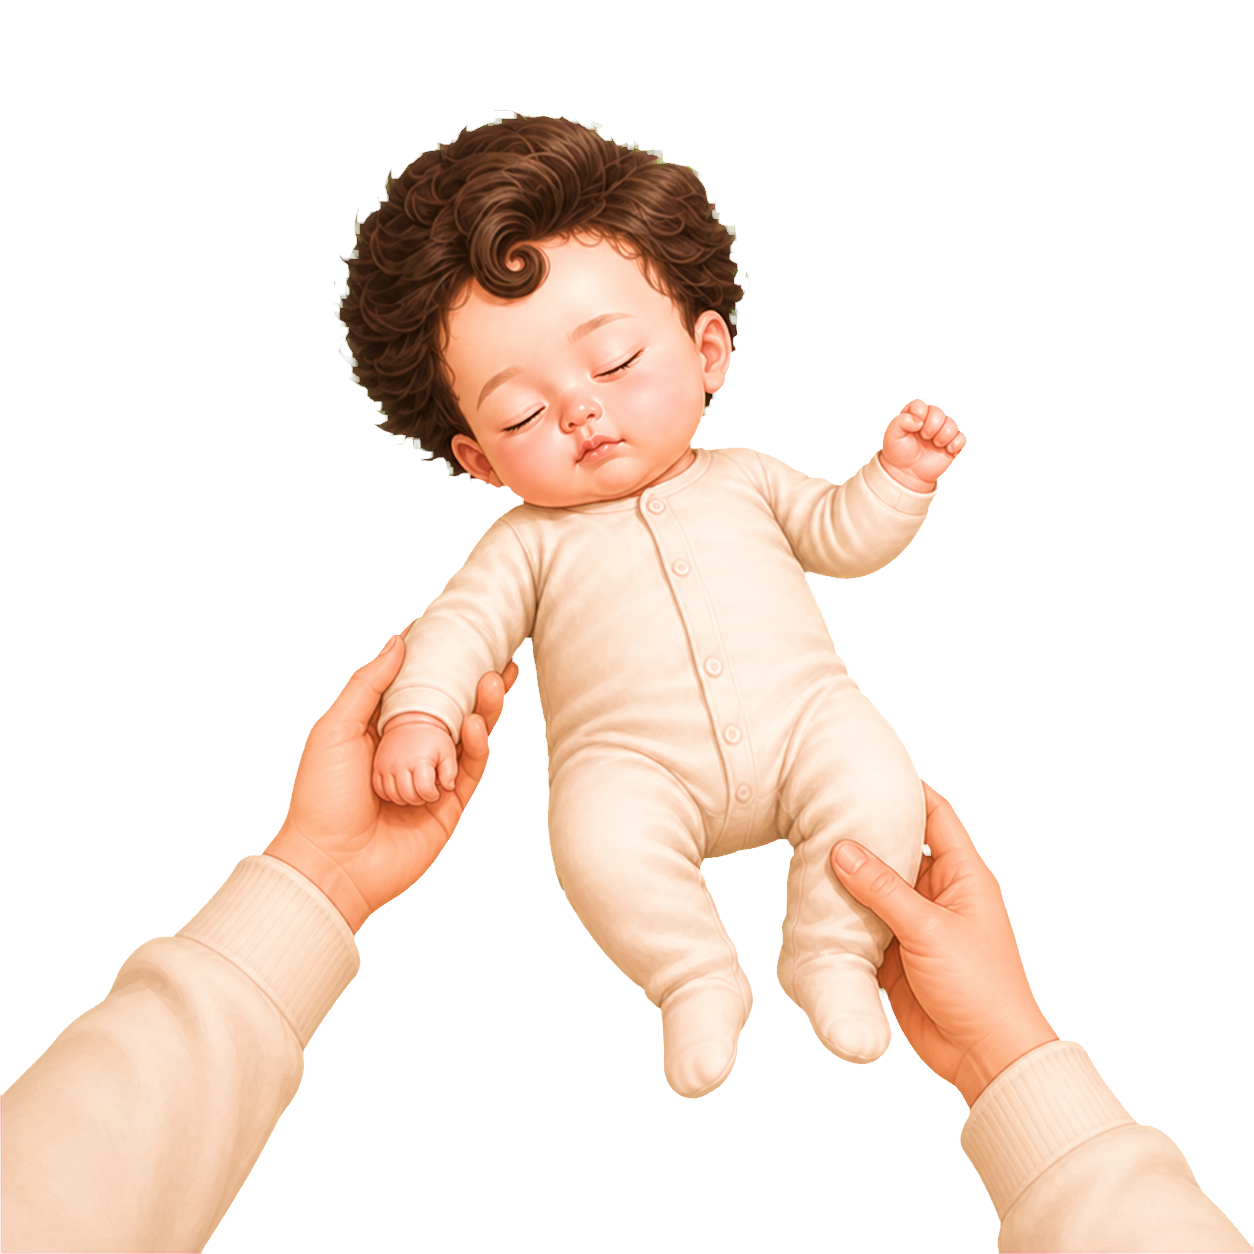
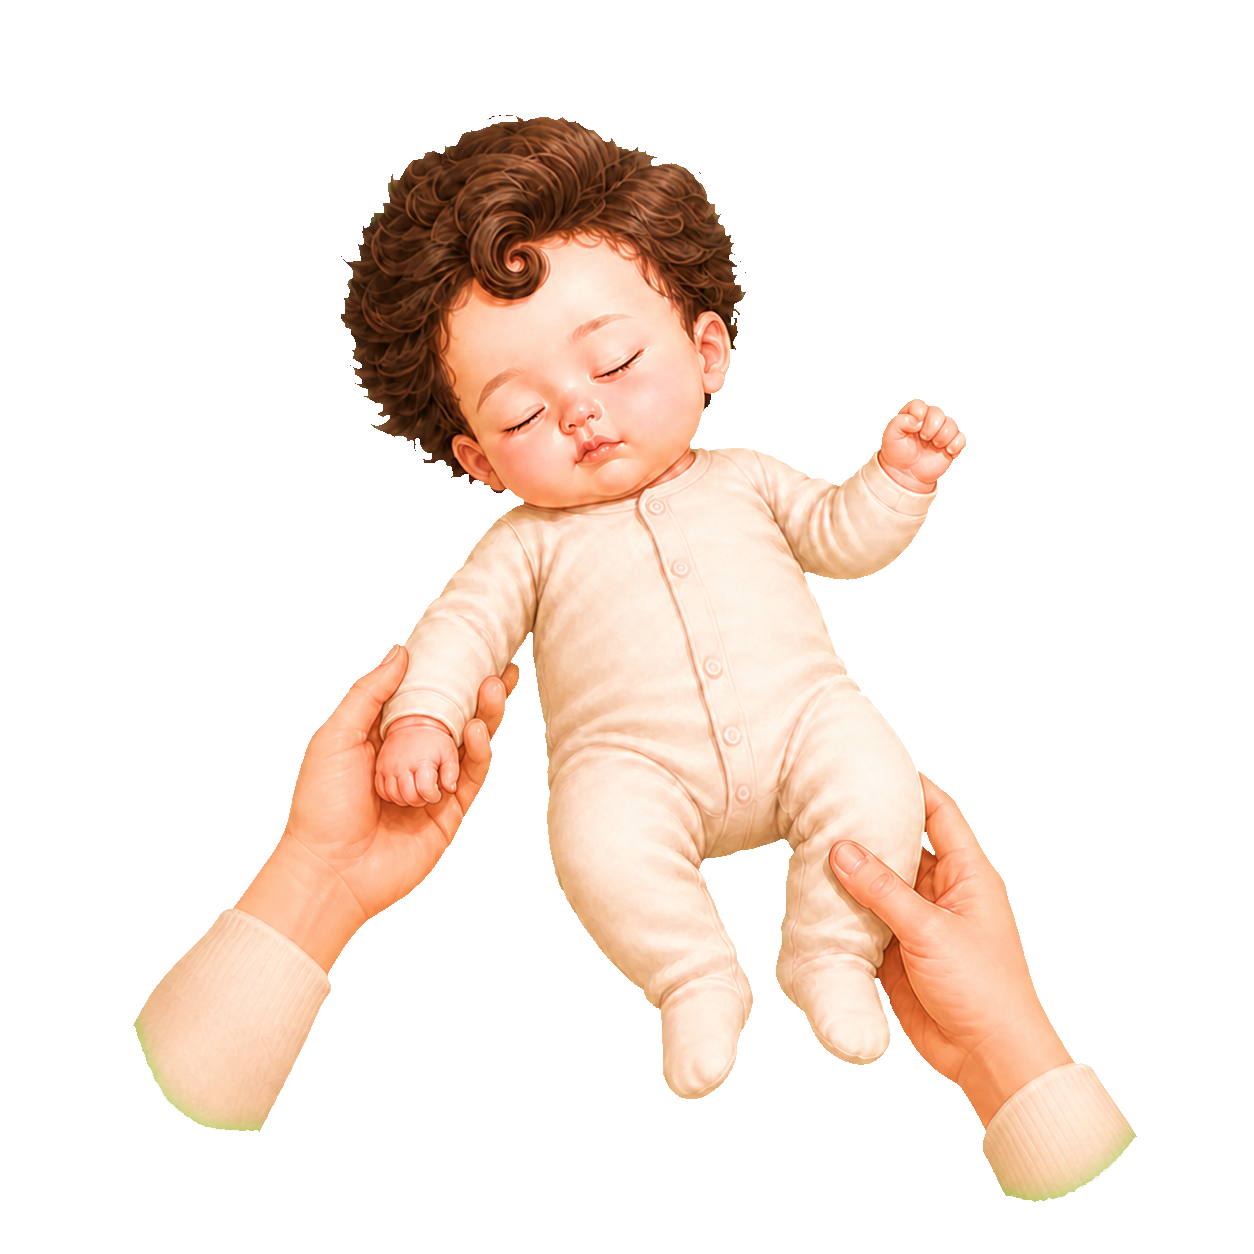
Fix F-09 interaction art edge crops

diff --git a/figma-plugin/code.js b/figma-plugin/code.js
@@ -675,6 +675,7 @@
       "이번 반영 · 진열형 아이템 2×2 + 독립 설명 패널 + 선택 광택\n" +
       "이번 반영 · 버튼 덱/탭/컨텍스트 칩 제거 + 아기와 방 소품 직접조작\n" +
       "이번 반영 · 기존 20종 + 눕히기/기저귀 확인/교체/팔다리 이완/체온 확인 합성 아트 5종\n" +
+      "아트 엣지 규정 · 보호자 팔/소매는 프레임 내 완결 또는 알파 0까지 페이드 · 테두리 32px 연속 접촉 금지\n" +
       "이번 반영 · 체력 0 회복 선택 + 밤 종료 중복 방지 + 3밤/엔딩 전환 회귀\n" +
       "이번 반영 · 주방 분유통/젖병/식힘 물 직접 터치 + 내용물 상태 가시화\n" +
       "이번 반영 · 빌드 용량 상한 제거. 필수 WebGL 산출물 정합성만 검사\n\n" +

diff --git a/Assets/Editor/InteractionArtCanvasEdgeValidator.cs b/Assets/Editor/InteractionArtCanvasEdgeValidator.cs
@@ -1,0 +1,85 @@
+using System;
+using System.Collections.Generic;
+using UnityEditor;
+using UnityEngine;
+
+namespace NotANap.Editor
+{
+    /// <summary>
+    /// F-09 회귀 방지: 직접 돌봄 합성 PNG가 캔버스 경계에서 긴 직선으로 잘린 채
+    /// 임포트되는 것을 즉시 알린다.
+    /// </summary>
+    public sealed class InteractionArtCanvasEdgeValidator : AssetPostprocessor
+    {
+        public const byte VisibleAlphaThreshold = 16;
+        public const int RejectedBorderRunLength = 32;
+
+        private static readonly HashSet<string> ValidatedAssets = new HashSet<string>(
+            StringComparer.Ordinal)
+        {
+            "Assets/Resources/Art/Baby/Interaction/diaper_check.png",
+            "Assets/Resources/Art/Baby/Interaction/diaper_change.png",
+            "Assets/Resources/Art/Baby/Interaction/limb_check.png",
+            "Assets/Resources/Art/Baby/Interaction/temperature_check.png",
+            "Assets/Resources/Art/Baby/Interaction/lying_sleep.png"
+        };
+
+        private void OnPostprocessTexture(Texture2D texture)
+        {
+            if (!ValidatedAssets.Contains(assetPath)) return;
+
+            int longestRun = LongestVisibleRunOnCanvasEdge(
+                texture.GetPixels32(), texture.width, texture.height, VisibleAlphaThreshold);
+            if (longestRun < RejectedBorderRunLength) return;
+
+            Debug.LogError(
+                $"[InteractionArt] {assetPath} has a {longestRun}px alpha run touching the " +
+                "canvas edge. Complete arms/sleeves inside the frame or fade alpha to zero " +
+                $"before the edge (limit: {RejectedBorderRunLength - 1}px).",
+                texture);
+        }
+
+        public static int LongestVisibleRunOnCanvasEdge(
+            Color32[] pixels, int width, int height, byte alphaThreshold)
+        {
+            if (pixels == null) throw new ArgumentNullException(nameof(pixels));
+            if (width <= 0 || height <= 0 || pixels.Length != width * height)
+                throw new ArgumentException("Pixel data must match width × height.", nameof(pixels));
+
+            int longest = 0;
+            longest = Math.Max(longest, LongestHorizontalRun(pixels, width, 0, alphaThreshold));
+            longest = Math.Max(longest,
+                LongestHorizontalRun(pixels, width, (height - 1) * width, alphaThreshold));
+            longest = Math.Max(longest, LongestVerticalRun(pixels, width, height, 0, alphaThreshold));
+            longest = Math.Max(longest,
+                LongestVerticalRun(pixels, width, height, width - 1, alphaThreshold));
+            return longest;
+        }
+
+        private static int LongestHorizontalRun(
+            Color32[] pixels, int width, int offset, byte alphaThreshold)
+        {
+            int longest = 0;
+            int current = 0;
+            for (int x = 0; x < width; x++)
+            {
+                current = pixels[offset + x].a >= alphaThreshold ? current + 1 : 0;
+                longest = Math.Max(longest, current);
+            }
+            return longest;
+        }
+
+        private static int LongestVerticalRun(
+            Color32[] pixels, int width, int height, int x, byte alphaThreshold)
+        {
+            int longest = 0;
+            int current = 0;
+            for (int y = 0; y < height; y++)
+            {
+                current = pixels[y * width + x].a >= alphaThreshold ? current + 1 : 0;
+                longest = Math.Max(longest, current);
+            }
+            return longest;
+        }
+    }
+}

diff --git a/docs/assets.md b/docs/assets.md
@@ -10,7 +10,7 @@
 | `Assets/Resources/Art/Baby/*.png` | 아기 상태 캐릭터 12종 | OpenAI 내장 이미지 생성 도구로 2026-07-21 생성 | 프로젝트 사용을 위한 사용자 소유 생성물 | 동일한 동양 아기, 부드러운 큰 웨이브와 C자 애교머리, 크로마키 제거 투명 PNG |
 | `Assets/Resources/Art/Baby/Animated/*.png` | 아기 프레임 애니메이션 12종 | 기존 아기 캐릭터를 OpenAI 내장 이미지 생성 도구로 확장 | 프로젝트 사용을 위한 사용자 소유 생성물 | 깨어 있음·보챔·수면 각 4프레임, 눈·입·손발 동작 포함 |
 | `Assets/Resources/Art/Baby/Interaction/*.png` | 아기 직접조작 합성 프레임 20종 | 기존 아기·아이템 캐릭터를 기준으로 OpenAI 내장 이미지 생성 도구로 2026-07-27 생성 | 프로젝트 사용을 위한 사용자 소유 생성물 | 아기띠 착용 감정 4종과 토닥임·안기·수유·쪽쪽이 각 4프레임. 손과 아이템을 별도 PNG로 덧씌우지 않고 완성 장면으로 렌더한 투명 PNG |
-| `Assets/Resources/Art/Baby/Interaction/{lying_sleep,diaper_check,diaper_change,limb_check,temperature_check}.png` | 누운 수면 상태와 안전한 직접 돌봄 합성 프레임 5종 | 기존 아기·손 합성 프레임을 참조해 OpenAI 내장 이미지 생성 도구로 2026-08-09 생성 | 프로젝트 사용을 위한 사용자 소유 생성물 | 안전한 바로 눕기, 기저귀 확인·교체, 팔다리 이완, 이마 체온 확인. 단색 크로마키 제거와 디스필을 적용한 투명 PNG이며 의료적 진단·제품 광고 표현 없음 |
+| `Assets/Resources/Art/Baby/Interaction/{lying_sleep,diaper_check,diaper_change,limb_check,temperature_check}.png` | 누운 수면 상태와 안전한 직접 돌봄 합성 프레임 5종 | 기존 아기·손 합성 프레임을 참조해 OpenAI 내장 이미지 생성 도구로 2026-08-09 생성·재제작 | 프로젝트 사용을 위한 사용자 소유 생성물 | 안전한 바로 눕기, 기저귀 확인·교체, 팔다리 이완, 이마 체온 확인. F-09 대응으로 팔·소매를 프레임 안에서 완결하고 수면 몸축을 요람 원근에 맞췄다. 단색 크로마키 제거·디스필·알파 경계 검사를 적용했으며 의료적 진단·제품 광고 표현 없음 |
 | `Assets/Resources/Art/Baby/Genetics/*.png` | 부모 외형 유전 아기 3종 | 기존 차분한 아기 캐릭터를 OpenAI 내장 이미지 생성 도구로 2026-07-27 편집 | 프로젝트 사용을 위한 사용자 소유 생성물 | 무쌍/유쌍 × 직모/곱슬 4조합 중 3종. 기존 `awake_calm.png`와 합쳐 전 조합을 제공하는 512×512 투명 PNG |
 | `Assets/Resources/Art/Items/*.png` | 밤 준비·플레이 HUD 아이템 4종 | OpenAI 내장 이미지 생성 도구로 2026-07-26 생성 | 프로젝트 사용을 위한 사용자 소유 생성물 | 아기띠·쪽쪽이·백색소음기·베이비 모니터, 크로마키 제거 투명 PNG |
 | `Assets/Resources/Art/Kitchen/*.png` | 주방 직접조작 소품 3종 | OpenAI 내장 이미지 생성 도구로 2026-07-27 생성 | 프로젝트 사용을 위한 사용자 소유 생성물 | 분유통·투명 젖병·식힘 물그릇, 기존 야간 주방의 크림·앰버·월넛 톤에 맞춘 크로마키 제거 투명 PNG |

diff --git a/figma-plugin/README.md b/figma-plugin/README.md
@@ -21,6 +21,8 @@ Figma V6 코드 싱크 보드에 반영하는 개발 플러그인입니다.
 - 토닥 3.4초, 안기 3.2초, 아기띠 2.8초, 수유 3.4초, 쪽쪽이 2.8초 계약
 - 제품 PNG 오버레이 금지와 완성 합성 스프라이트 25종 계약
 - 눕혀 재우기·기저귀 확인·기저귀 교체·팔다리 이완·체온 확인 신규 합성 아트 계약
+- 보호자 팔·소매는 프레임 안에서 완결하거나 알파 0까지 페이드하고, 캔버스 테두리에
+  32px 이상 연속 접촉하는 직선 절단을 금지하는 아트 엣지 계약
 - 욕실 체온 확인과 아기방 온·습도 숫자 확인/조정의 분리
 - 체력 0 회복 선택, 밤 종료 중복 방지, 첫째→둘째→백일째→엔딩 전환 계약
 - 기존 V6 HUD를 불투명 V13 화면으로 교체해 문구·상태 카드 중복 노출 방지

diff --git a/docs/figma-mobile-handoff.md b/docs/figma-mobile-handoff.md
@@ -47,7 +47,12 @@
 
 ## 4. 완성 합성 이미지와 모션
 
-`Assets/Resources/Art/Baby/Interaction/`의 20개 합성 스프라이트가 단일 기준이다.
+`Assets/Resources/Art/Baby/Interaction/`의 25개 합성 스프라이트가 단일 기준이다.
+
+- 투명 PNG의 보호자 팔·소매는 프레임 안에서 곡선으로 완결하거나 알파가 0까지 자연스럽게
+  페이드되어야 한다. 캔버스 테두리에 가시 알파가 32px 이상 연속 접촉하는 직선 절단은 금지한다.
+- 수면 아트는 안전한 바로 눕기 자세와 요람 매트리스의 가로 원근을 맞추며, 요람·침구 자체를
+  아기 스프라이트에 중복 합성하지 않는다.
 
 | 행동 | 길이 | 필요한 완성 상태 |
 |---|---:|---|
